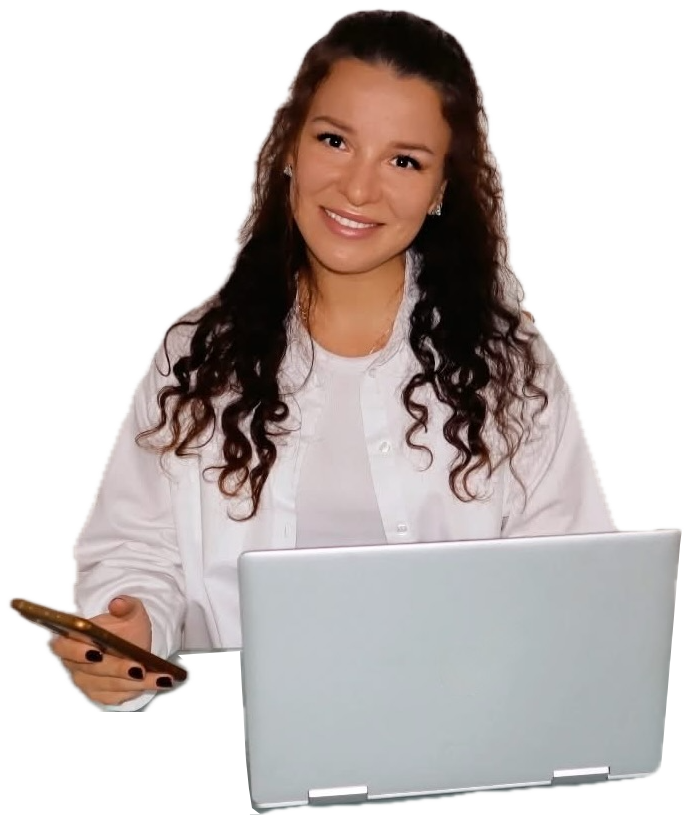
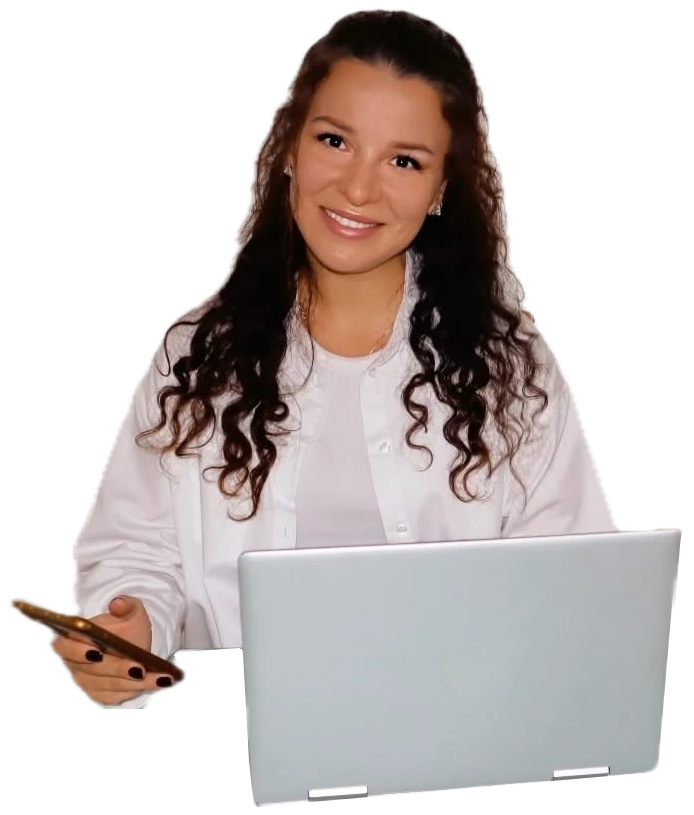
Remove hero statement component and related styles for design update

diff --git a/src/components/Hero.test.tsx b/src/components/Hero.test.tsx
@@ -82,9 +82,6 @@ describe("hero interactive text", () => {
     expect(image.getAttribute("src")).toBe(`${process.env.PUBLIC_URL || ""}/olena-shereiko-portrait-refined.png`);
     expect(image.parentElement?.classList.contains("hero-portrait")).toBe(true);
     expect(container.querySelector(".hero-portrait-frame")).toBeNull();
-    const statement = container.querySelector(".hero-statement");
-    expect(statement?.querySelector(":scope > .sr-only")?.textContent).toBe("Curiosity meets creation.");
-    expect(statement?.parentElement).toBe(image.parentElement);
   });
 
   it("keeps the full name grouped in the heading", () => {
@@ -142,8 +139,6 @@ describe("hero interactive text", () => {
       eyebrow,
       container.querySelector(".hero-summary"),
       container.querySelector(".hero-interactive-details"),
-      container.querySelector(".hero-statement-line"),
-      container.querySelector(".hero-statement-creation"),
     ];
     const letters = textBlocks.map((block) =>
       block?.querySelector<HTMLElement>(".hero-interactive-letter")
@@ -160,7 +155,8 @@ describe("hero interactive text", () => {
 
   it("does not move letters for touch or reduced motion", () => {
     const { container } = render(<Hero />);
-    const letters = Array.from(container.querySelectorAll<HTMLElement>(".hero-statement .hero-interactive-letter"));
+    const letters = Array.from(container.querySelectorAll<HTMLElement>(".hero-interactive-letter"));
+    expect(letters.length).toBeGreaterThan(0);
     movePointer("touch");
     expect(letters.every((letter) => letter.style.transform === "")).toBe(true);
     reducedMotion = true;

diff --git a/src/index.css b/src/index.css
@@ -125,42 +125,10 @@
     font-size: min(1em, 9.5vw);
   }
 
-  .hero-statement {
-    position: absolute;
-    right: 0;
-    bottom: 0.5rem;
-    width: 100%;
-    margin: 0;
-    color: #d41470;
-    font-size: clamp(1.65rem, 6.2vw, 3rem);
-    font-weight: 700;
-    letter-spacing: 0.01em;
-    line-height: 1.02;
-    text-align: center;
-    filter: drop-shadow(0 1px 5px rgba(255, 255, 255, 0.95));
-    pointer-events: none;
-  }
-
-  .hero-statement-line {
-    display: block;
-  }
-
-  .hero-statement-creation {
-    font-style: italic;
-  }
-
   @supports (background-clip: text) or (-webkit-background-clip: text) {
-    .hero-full-name .hero-interactive-letter,
-    .hero-statement .hero-interactive-letter {
+    .hero-full-name .hero-interactive-letter {
       padding: 0.2em;
       margin: -0.2em;
-    }
-
-    .hero-statement .hero-interactive-letter {
-      background-image: linear-gradient(90deg, #b80f69, #d41470, #df4b99);
-      -webkit-background-clip: text;
-      background-clip: text;
-      -webkit-text-fill-color: transparent;
     }
   }
 
@@ -227,13 +195,6 @@
       justify-self: end;
     }
 
-    .hero-statement {
-      right: -2rem;
-      bottom: -1.5rem;
-      width: 120%;
-      font-size: clamp(2.75rem, 4vw, 4rem);
-      transform: translateX(calc(1rem + clamp(0px, (100vw - 1024px) * 0.1, 2rem)));
-    }
   }
 
   .nav-logo {

diff --git a/src/components/Hero.tsx b/src/components/Hero.tsx
@@ -245,13 +245,6 @@ const Hero: React.FC = () => {
             height="815"
             className="hero-portrait-image"
           />
-          <p className="hero-statement">
-            <span className="sr-only">Curiosity meets creation.</span>
-            <span aria-hidden="true">
-              <span className="hero-statement-line"><InteractiveText text="Curiosity meets" /></span>
-              <span className="hero-statement-line hero-statement-creation"><InteractiveText text="creation." /></span>
-            </span>
-          </p>
         </div>
 
         {/* Scroll indicator */}
